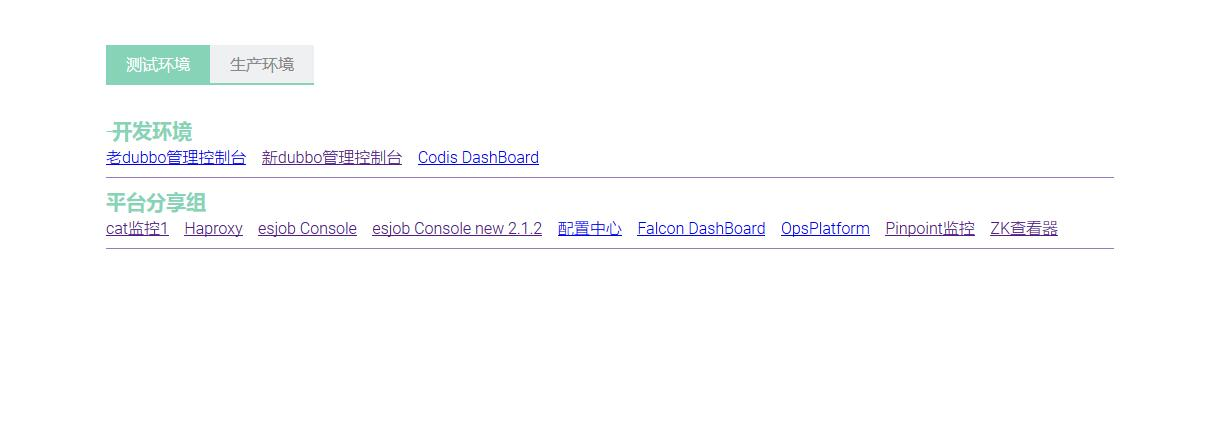
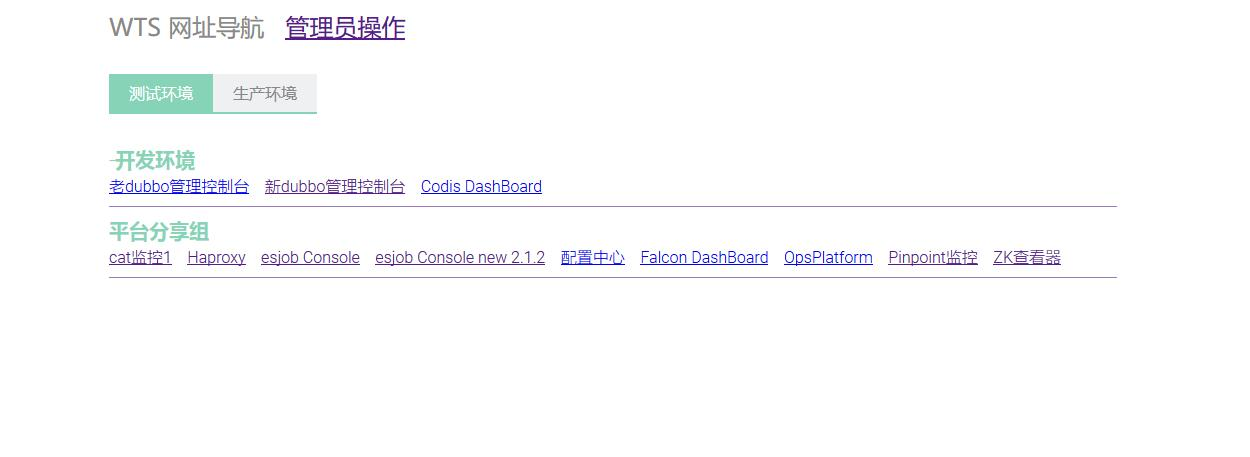
modify index page

Changed region(s): [[0.0619, 0.0293, 0.8981, 0.6163]]

diff --git a/src/main/resources/templates/index.html b/src/main/resources/templates/index.html
@@ -15,12 +15,14 @@
 </head>
 
 <body>
-<div style="text-align:center;clear:both;">
+<div style="text-align:left;clear:both;padding-top: 20px;width: 70%;margin: 0 auto;color: #888;">
+	<h1 style="font-size: 24px" >WTS 网址导航&nbsp;&nbsp;&nbsp;<a href="/manager/wts/list" target="_blank" >管理员操作</a></h1><br>
 </div>
-  <div class="tab">
 
+  <div class="tab" style="padding-top: 20px;">
 	<ul class="tabs">
 		<li th:each="lm:${mapWTS}"><a th:text="${lm.key}" href="#"></a></li>
+
 	</ul> <!-- / tabs -->
 
 	<div class="tab_content">

diff --git a/src/main/resources/static/css/style.css b/src/main/resources/static/css/style.css
@@ -1,6 +1,6 @@
 @import url(http://fonts.googleapis.com/css?family=Roboto:300);
 .tab {
-  padding-top: 50px;
+  padding-top: 20px;
   margin-bottom: 20px;
   position: relative;
   overflow: hidden;

diff --git a/src/main/java/com/xs/java/Interceptor/loginInterceptor.java b/src/main/java/com/xs/java/Interceptor/loginInterceptor.java
@@ -8,15 +8,15 @@ import javax.servlet.http.HttpSession;
 
 public class loginInterceptor implements HandlerInterceptor {
 
-    private String[] passurl = {"login","logout","wlist","css","js","img"};
+    private String[] authurl = {"manager"};
 
     @Override
     public boolean preHandle(HttpServletRequest request, HttpServletResponse response, Object handler)
             throws Exception {
 
         String url = request.getRequestURL().toString();
-        for(String onePassUrl : passurl){
-            if(url.contains(onePassUrl)){
+        for(String oneAuthUrl : authurl){
+            if(!url.contains(oneAuthUrl)){
                 return true;
             }
         }

diff --git a/src/main/java/com/xs/java/controllers/IndexController.java b/src/main/java/com/xs/java/controllers/IndexController.java
@@ -8,6 +8,7 @@ import org.springframework.stereotype.Controller;
 import org.springframework.ui.Model;
 import org.springframework.web.bind.annotation.RequestMapping;
 
+import javax.servlet.http.HttpSession;
 import java.util.ArrayList;
 import java.util.HashMap;
 import java.util.List;
@@ -18,6 +19,11 @@ public class IndexController {
 
     @Autowired
     private WebTablesService webTablesService;
+
+    @RequestMapping("/")
+    public String index(HttpSession session) {
+        return "redirect:/wlist";
+    }
 
     @RequestMapping("/wlist")
     public String index(Model model){

diff --git a/src/main/java/com/xs/java/controllers/LoginController.java b/src/main/java/com/xs/java/controllers/LoginController.java
@@ -28,14 +28,6 @@ public class LoginController {
     @Autowired
     private WebTablesService webTablesService;
 
-    @RequestMapping("/")
-    public String index(HttpSession session) {
-        if((boolean)session.getAttribute("user")){
-            return "redirect:/manager/wts/list";
-        }else{
-            return "redirect:/login";
-        }
-    }
 
     @RequestMapping("/login")
     public String index(Model model){
